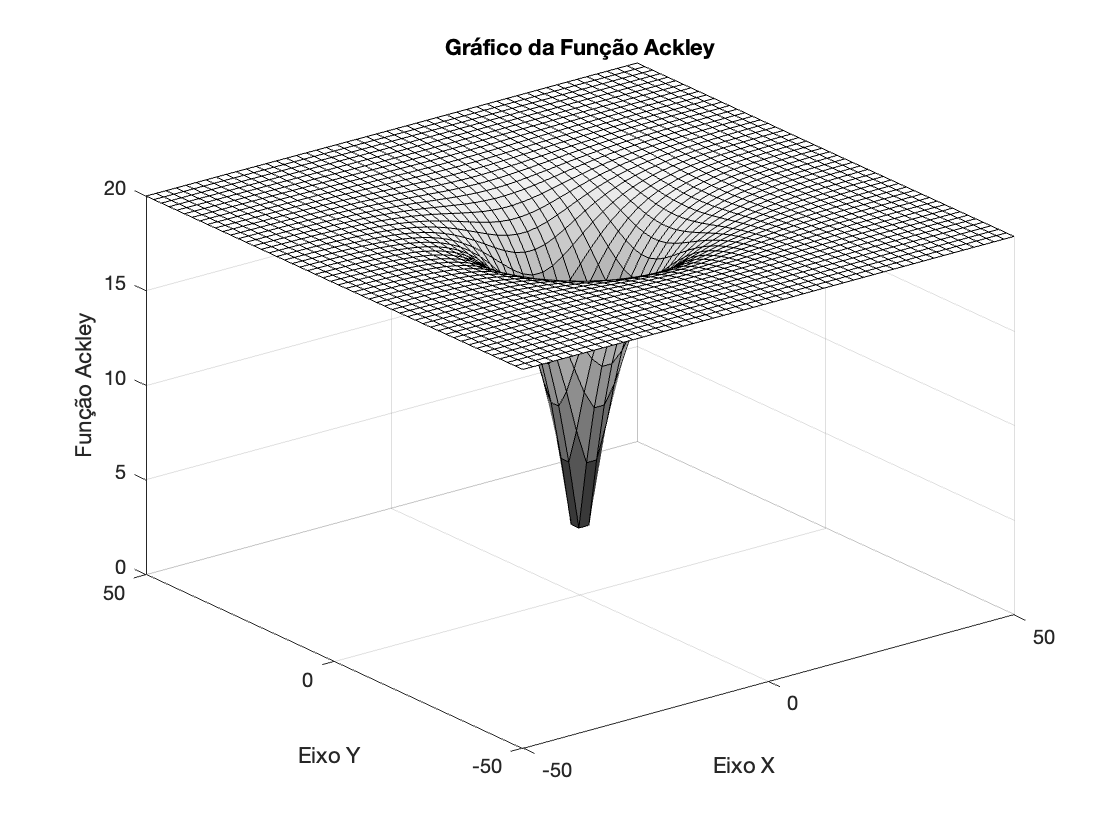
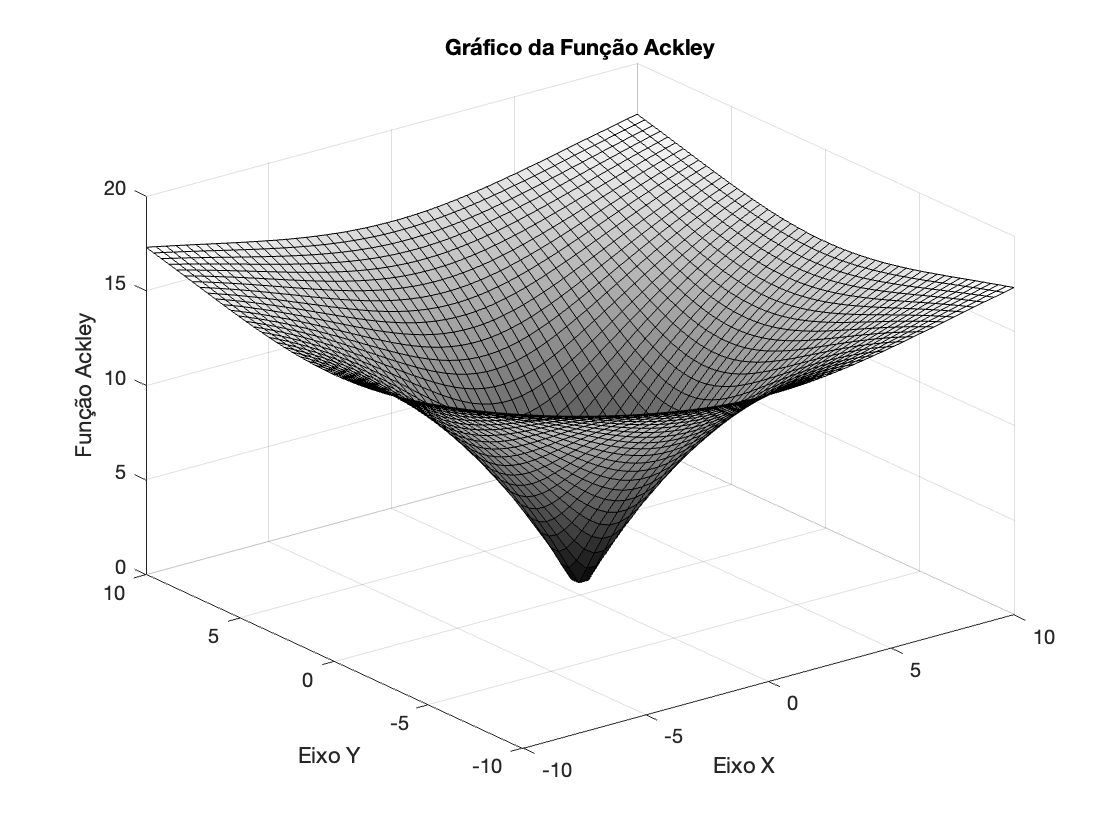
refact: Finish project

diff --git a/min_ackley.m b/min_ackley.m
@@ -2,12 +2,12 @@
 %         Robson Mesquita Gomes - 399682
 % 
 % implementar um script seguindo um algoritmo genético para minimizar a função 
-% f(x,y) = -20*exp(-0.2*sqrt(0.5*(Xi^2 + Yi^2))) - exp(0.5*(cos(2*pi*Xi)+cos(2*pi*Yi)))+exp(1)+20
+% f(x,y) = -20*exp(-0.2*sqrt(0.5*(Xi^2 + Yi^2))) - exp(0.5*(cos(2*pi*Xi)+cos(2*pi*Yi)))+exp(1)+20;
 
+% Função principal
 function main()
-
-    geracoes = 10;
-    tamanho_populacao = 100;
+    geracoes = 10; % numero de gerações para a população
+    tamanho_populacao = 100; % populacao 100 individuos
 
     % Inicializar população aleatória
     populacao = randi([0, 1], tamanho_populacao, 20);
@@ -54,11 +54,13 @@ function main()
     title(strcat('X = ', num2str(X_melhor), ', Y = ', num2str(Y_melhor)))
 end
 
+% Função Objetivo - Ackley
 function f = funcao_objetivo(X, Y)
     % Ackley
     f = -20.0 * exp(-0.2 * sqrt(0.5*(X.^2 + Y.^2))) - exp(0.5 * (cos(X.* 2 * pi) + cos(Y.* 2 * pi))) + exp(1) + 20;
 end
 
+% Função que avalia população
 function notas = avaliar_populacao(populacao)
     X_bin = populacao(:, 1:10);
     Y_bin = populacao(:, 11:20);
@@ -69,6 +71,7 @@ function notas = avaliar_populacao(populacao)
     notas = funcao_objetivo(X, Y);
 end
 
+% FUnção que implementa roleta para escolha de pais
 function individuo = crossover(pais)
     filhos = [];
     for j = 1:2:100
@@ -86,6 +89,7 @@ function individuo = crossover(pais)
     individuo = filhos;
 end
 
+% Função que 
 function individuo_mutado = mutacao(individuo)
     prob_mutacao = 0.005;
     individuo_mutado = individuo;
@@ -99,6 +103,7 @@ function individuo_mutado = mutacao(individuo)
     end
 end
 
+% 
 function indice_selecionado = roleta(notas)
     probabilidade_selecao = notas / sum(notas);
     acumulado_probabilidade = cumsum(probabilidade_selecao);
@@ -106,6 +111,7 @@ function indice_selecionado = roleta(notas)
     indice_selecionado = find(acumulado_probabilidade >= aleatorio, 1);
 end
 
+% Fun
 function pais_selecionados = selecao_roleta(notas, quantidade)
     pais_selecionados = zeros(quantidade, 1);
 
@@ -114,6 +120,7 @@ function pais_selecionados = selecao_roleta(notas, quantidade)
     end
 end
 
+% Função que transforma de binário para decimal
 function decimal = binario_para_decimal(binario, limite_inferior, limite_superior)
     [n, m] = size(binario);
     expoentes = 2 .^ (m-1:-1:0);

diff --git a/ga_ackley.m b/ga_ackley.m
@@ -1,5 +1,5 @@
 function main ()
-    plotAckley(-50,50,-50,50,50)
+    plotAckley(-10,10,-10,10,50)
 end
 
 function f = ackley(x, y)

diff --git a/README.md b/README.md
@@ -10,6 +10,10 @@ No intervalo $x$ $\in$ $[-10,10]$ e $y$ $\in$ $[-10,10]$.
 
 ![Gráfico da função Ackley](demo/ackley.png)
 
+## Execução
+
+O arquivo principal do projeto é o [min_ackley.m](min_ackley.m)
+
 ## Requisitos
 
   - [X] `Requisito 01`: Encontrar o mínimo da função no intervalo $x$ $\in$ $[-10,10]$ e $y$ $\in$ $[-10,10]$;
@@ -23,7 +27,11 @@ No intervalo $x$ $\in$ $[-10,10]$ e $y$ $\in$ $[-10,10]$.
     - [ ] Os vinte últimos representam $y$
   - [X] Exibir os valores $x$ e $y$ do menor valor encontrado para $f(x, y)$
 
- ## Autores
+## Demo
+
+[](demo/demo.png)
+
+## Autores
 
 <table>
   <tr>
